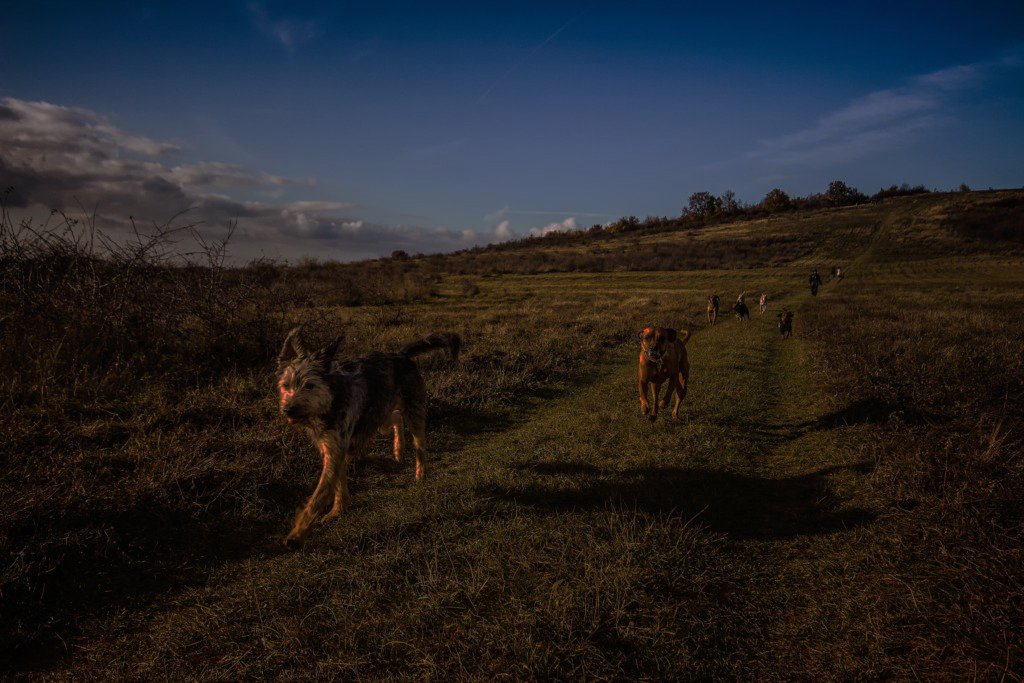
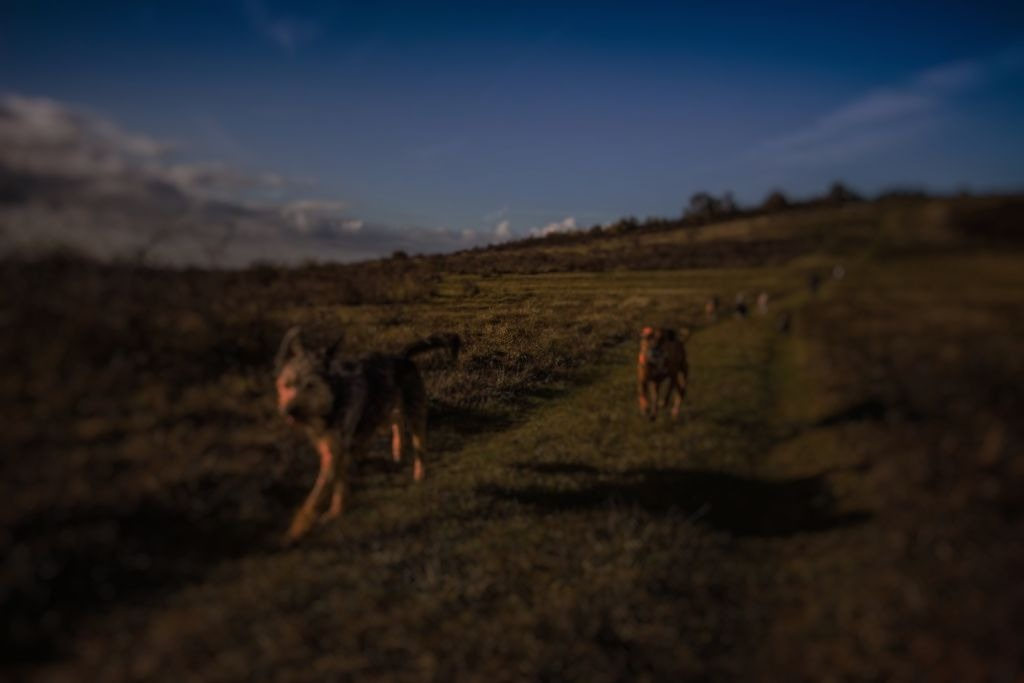
Photo blurred, css blur taken out.

diff --git a/ClientApp/src/app/not-prequal/not-prequal.component.css b/ClientApp/src/app/not-prequal/not-prequal.component.css
@@ -1,8 +1,5 @@
 .image {
-  background-image: url("../../assets/img/background_dog.jpg"); 
-  /* Add the blur effect */
-  filter: blur(8px);
-  -webkit-filter: blur(8px);
+  background-image: url("../../assets/img/background_dog.jpg");
   /* Full height */
   height: 100%;
   /* Center and scale the image nicely */
@@ -23,7 +20,7 @@
 .Message {
   font-size: x-large;
   padding: 2%;
-  background-color: #dedddc;  
+  background-color: #dedddc;
   font-family: Poppins, regular;
 }
 
@@ -88,8 +85,7 @@
     left: 0;
     width: 100%;
     height: 110%;
-    background-image: url("../../assets/img/background_dog.jpg"); 
-    filter: blur(8px);
+    background-image: url("../../assets/img/background_dog.jpg");
     background-position: center center;
     background-repeat: no-repeat;
     background-size: cover;

diff --git a/ClientApp/src/app/if-prequal/if-prequal.component.css b/ClientApp/src/app/if-prequal/if-prequal.component.css
@@ -1,8 +1,5 @@
 .image {
   background-image: url("../../assets/img/background_dog.jpg");
-  /* Add the blur effect */
-  filter: blur(8px);
-  -webkit-filter: blur(8px);
   /* Full height */
   height: 100%;
   /* Center and scale the image nicely */
@@ -89,7 +86,6 @@
     width: 100%;
     height: 110%;
     background-image: url("../../assets/img/background_dog.jpg");
-    filter: blur(8px);
     background-position: center center;
     background-repeat: no-repeat;
     background-size: cover;

diff --git a/ClientApp/src/app/back-display/back-display.component.css b/ClientApp/src/app/back-display/back-display.component.css
@@ -1,9 +1,5 @@
 .image {
   background-image: url("../../assets/img/background_dog.jpg");
-  /* Add the blur effect */
-
-  filter: blur(8px);
-  -webkit-filter: blur(8px);
   /* Full height */
   height: 100%;
   /* Center and scale the image nicely */
@@ -99,7 +95,6 @@ table {
   width: 100%;
   height: 100%;
   background-image: url("../../assets/img/background_dog.jpg");
-  filter: blur(8px);
   background-position: center center;
   background-repeat: no-repeat;
   background-size: cover;

diff --git a/ClientApp/src/app/owner-form/owner-form.component.css b/ClientApp/src/app/owner-form/owner-form.component.css
@@ -1,5 +1,5 @@
 #logo{
-  background-image: url("../../assets/img/background_dog.jpg"); 
+  background-image: url("../../assets/img/background_dog.jpg");
 }
 
 .Title {
@@ -66,7 +66,6 @@ text-align: center;
   width: 100%;
   height: 110%;
   background-image: url("../../assets/img/background_dog.jpg");
-  filter: blur(8px);
   background-position: center center;
   background-repeat: no-repeat;
   background-size: cover;

diff --git a/ClientApp/src/app/front-display/front-display.component.css b/ClientApp/src/app/front-display/front-display.component.css
@@ -20,7 +20,6 @@ td{
   right: 0;
   height: 100%;
   background-image: url("../../assets/img/background_dog.jpg");
-  background: rgba(0, 0, 0, 0.15);
   z-index: 1;
   display: flex;
   align-items: center;
@@ -66,7 +65,6 @@ td{
     width: 100%;
     height: 100%;
     background-image: url("../../assets/img/background_dog.jpg");
-    filter: blur(8px);
   }
 
 .container {

diff --git a/ClientApp/src/app/login-auth/login-auth.component.css b/ClientApp/src/app/login-auth/login-auth.component.css
@@ -26,7 +26,6 @@
   width: 100%;
   height: 110%;
   background-image: url("../../assets/img/background_dog.jpg");
-  filter: blur(8px);
   background-position: center center;
   background-repeat: no-repeat;
   background-size: cover;
